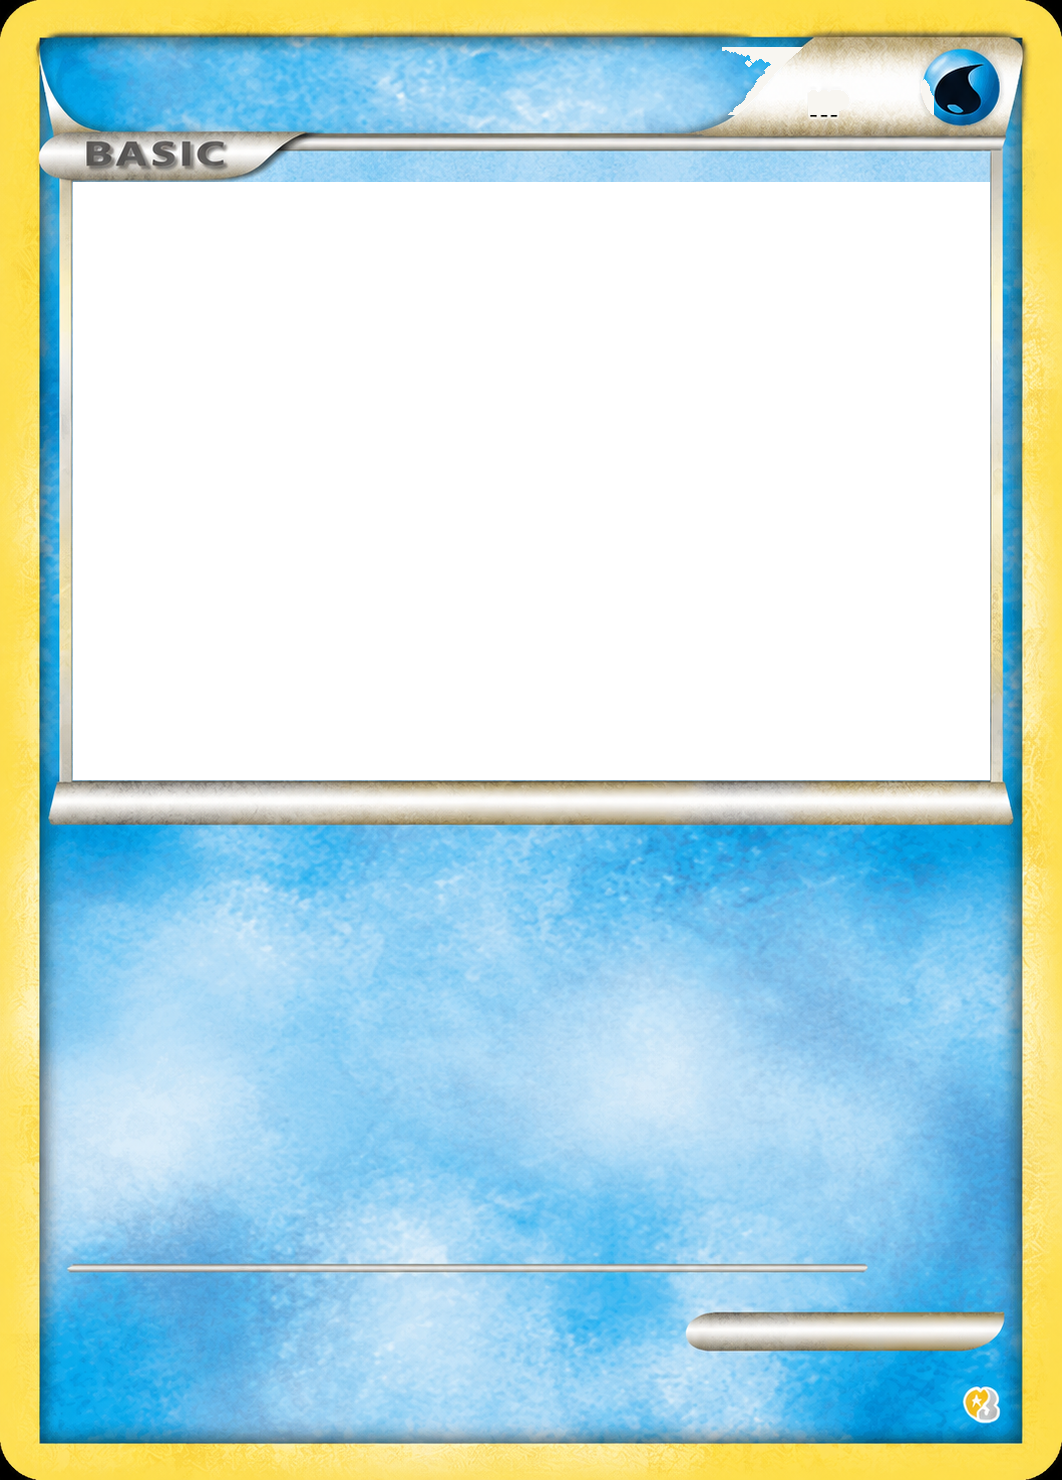
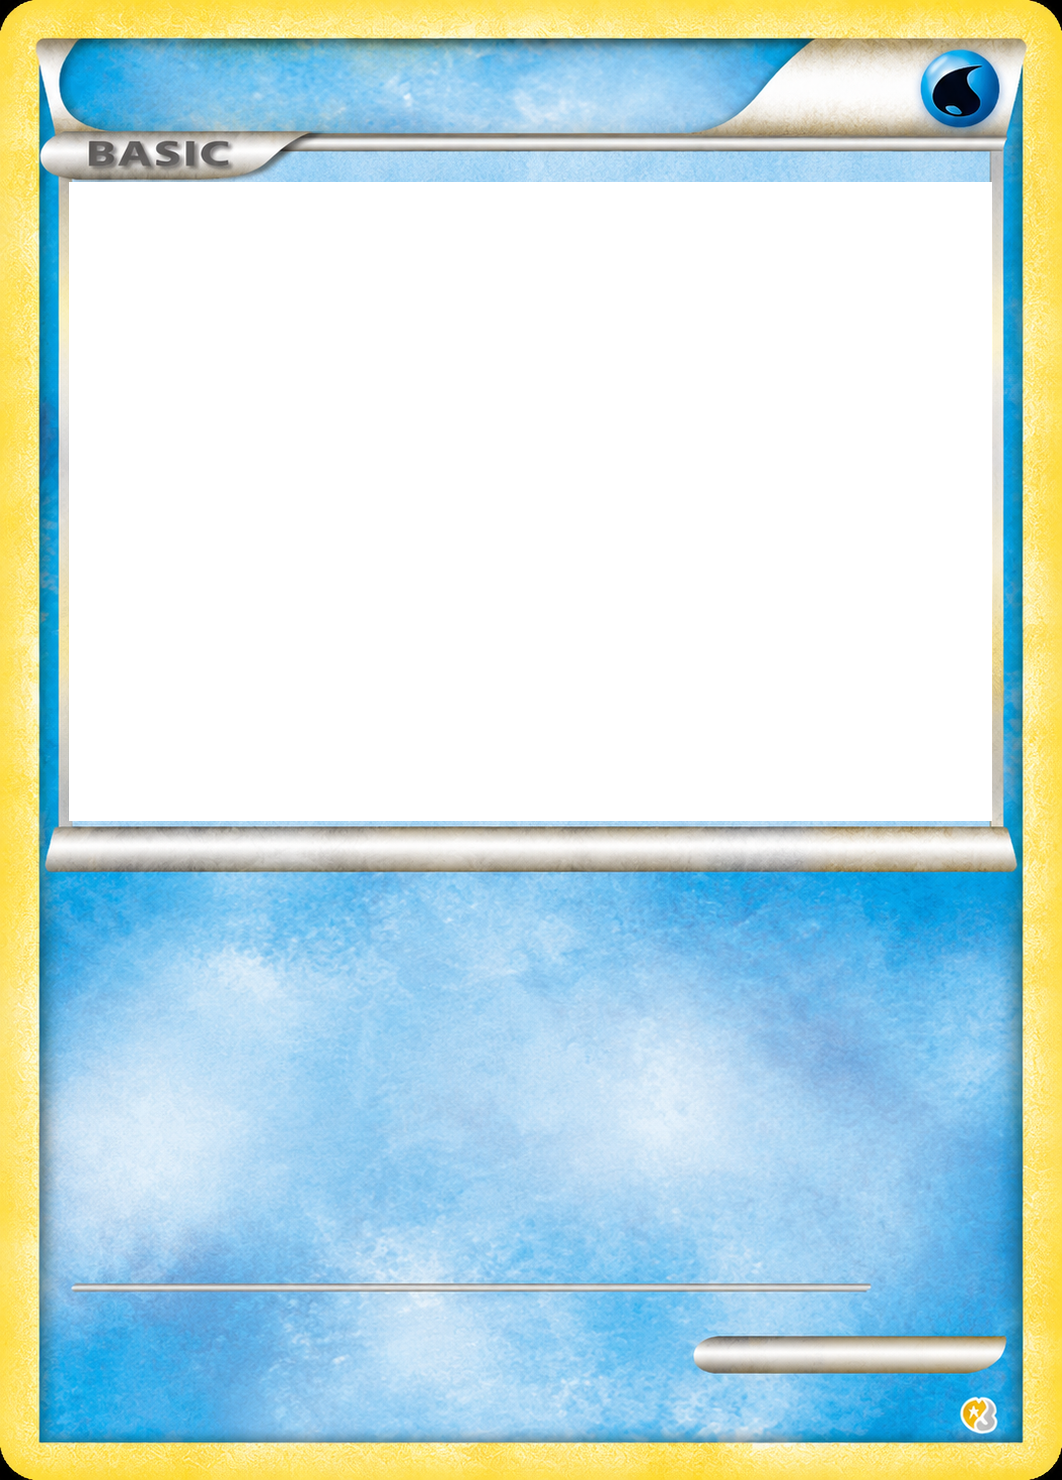
Reprocess all HGSS Basic templates and wire full energy set
Rebuild fire/lightning/grass/water/fighting/psychic/colorless from
Desktop sources (HP removed), measure per-energy art windows and
layout anchors, and bump template cache to v=9.

Changed region(s): [[0.0, 0.0, 1.0, 1.0], [0.7458, 0.7149, 0.839, 0.777], [0.4972, 0.0932, 0.5904, 0.1243]]

diff --git a/src/components/ui/TcgCard.tsx b/src/components/ui/TcgCard.tsx
@@ -54,23 +54,24 @@ const GEN2_ART_WINDOW = { left: 11.0, top: 16.0, width: 78.0, height: 28.0 };
 const HGSS_GAMES = new Set(['HeartGold', 'SoulSilver']);
 
 /**
- * Art window per basic template (transparent hole). Fire lip is higher;
- * lightning’s white art rect + silver sit a bit lower on the PNG.
+ * Art window per basic template (transparent hole). Tops sit below the BASIC
+ * tab (~12.3%) so the badge stays opaque. Measured after 2026-07-11 reprocess
+ * of all Desktop HGSS_Card_Templates basics (HP removed from sources).
  */
 const HGSS_BASIC_ART_WINDOW: Record<string, { left: number; top: number; width: number; height: number }> = {
-  fire:      { left: 7.34, top: 10.34, width: 85.22, height: 41.96 },
-  // Yellow_template.png (fixed lightning): yellow art fill punched as rect below BASIC tab.
-  lightning: { left: 7.72, top: 12.30, width: 85.40, height: 40.00 },
-  // Leaf source resized 1054×1492 → 1062×1480; silver lip lower than fire.
-  grass:     { left: 7.34, top: 10.61, width: 85.40, height: 43.50 },
-  // water_template_basic_gen4.png: blue art fill; top below BASIC tab like lightning.
-  water:     { left: 6.87, top: 12.30, width: 86.35, height: 40.41 },
+  fire:      { left: 7.06, top: 12.30, width: 85.78, height: 40.07 },
+  lightning: { left: 6.50, top: 12.30, width: 86.91, height: 41.08 },
+  grass:     { left: 7.06, top: 12.30, width: 85.78, height: 42.03 },
+  water:     { left: 6.50, top: 12.30, width: 86.91, height: 43.18 },
+  fighting:  { left: 7.72, top: 12.30, width: 84.46, height: 40.14 },
+  psychic:   { left: 6.50, top: 12.30, width: 86.91, height: 42.57 },
+  colorless: { left: 6.50, top: 12.30, width: 86.91, height: 42.16 },
 };
 const HGSS_BASIC_ART_DEFAULT = HGSS_BASIC_ART_WINDOW.fire;
 
 /**
- * Text anchors per template. Fire and lightning PNGs are not pixel-identical
- * vertically — silver lip / bottom rule differ — so OT/moves/stats must track each.
+ * Text anchors per template. Silver lip / bottom rule Y differ slightly across
+ * PNGs, so OT / moves / stats / footer track each energy independently.
  */
 const HGSS_LAYOUT: Record<string, {
   dataBarTop: string;
@@ -80,40 +81,60 @@ const HGSS_LAYOUT: Record<string, {
   footerTop: string;
 }> = {
   fire: {
-    dataBarTop: '53.15%',
-    attacksTop: '56.8%',
-    statBoxTop: '85.4%',
-    heldPillTop: '87.15%',
-    footerTop: '90.4%',
+    dataBarTop: '53.31%',
+    attacksTop: '56.81%',
+    statBoxTop: '84.93%',
+    heldPillTop: '86.68%',
+    footerTop: '89.08%',
   },
   lightning: {
-    // New Yellow_template: silver lip ~52.3%, bottom rule ~84.1% (near fire).
-    dataBarTop: '53.2%',
-    attacksTop: '56.9%',
-    statBoxTop: '85.3%',
-    heldPillTop: '87.1%',
-    footerTop: '89.6%',
+    dataBarTop: '54.33%',
+    attacksTop: '57.83%',
+    statBoxTop: '86.29%',
+    heldPillTop: '88.04%',
+    footerTop: '90.44%',
   },
   grass: {
-    // Silver lip starts ~54.3%; bottom rule ~86.3% (lower than fire).
-    dataBarTop: '55.2%',
-    attacksTop: '58.5%',
-    statBoxTop: '87.5%',
-    heldPillTop: '89.5%',
-    footerTop: '92.0%',
+    dataBarTop: '55.27%',
+    attacksTop: '58.77%',
+    statBoxTop: '87.43%',
+    heldPillTop: '89.18%',
+    footerTop: '91.58%',
   },
   water: {
-    // Silver lip ~52.7%; bottom rule ~85.5%.
-    dataBarTop: '53.6%',
-    attacksTop: '57.3%',
-    statBoxTop: '86.7%',
-    heldPillTop: '88.5%',
-    footerTop: '91.0%',
+    dataBarTop: '56.76%',
+    attacksTop: '60.26%',
+    statBoxTop: '88.04%',
+    heldPillTop: '89.79%',
+    footerTop: '92.19%',
+  },
+  fighting: {
+    dataBarTop: '53.38%',
+    attacksTop: '56.88%',
+    statBoxTop: '85.68%',
+    heldPillTop: '87.43%',
+    footerTop: '89.83%',
+  },
+  psychic: {
+    dataBarTop: '55.81%',
+    attacksTop: '59.31%',
+    statBoxTop: '87.97%',
+    heldPillTop: '89.72%',
+    footerTop: '92.12%',
+  },
+  colorless: {
+    dataBarTop: '55.41%',
+    attacksTop: '58.91%',
+    statBoxTop: '87.57%',
+    heldPillTop: '89.32%',
+    footerTop: '91.72%',
   },
 };
 
-/** HGSS Basic templates currently on disk under public/cards/gen4/templates/. */
-const HGSS_BASIC_ENERGIES = new Set(['fire', 'lightning', 'grass', 'water']);
+/** Full classic Basic energy set under public/cards/gen4/templates/. */
+const HGSS_BASIC_ENERGIES = new Set([
+  'fire', 'lightning', 'grass', 'water', 'fighting', 'psychic', 'colorless',
+]);
 
 /**
  * Resolve an HGSS real-PNG template if one exists for this stage + energy.
@@ -132,7 +153,7 @@ function resolveHgssTemplate(
   if (!stageKey) return null;
   if (stageKey === 'basic' && HGSS_BASIC_ENERGIES.has(energyKey)) {
     // ?v= bumps when templates are reprocessed (art hole / corners).
-    return `/cards/gen4/templates/${stageKey}-${energyKey}.png?v=8`;
+    return `/cards/gen4/templates/${stageKey}-${energyKey}.png?v=9`;
   }
   return null;
 }

diff --git a/STATUS.md b/STATUS.md
@@ -2,7 +2,7 @@
 
 **Purpose:** Hand-off doc for new AI/human sessions. Keep this updated when shipping work.  
 **Repo:** `danielkimball/pokedex` · **Deploy:** Vercel (pushes to `main`)  
-**Local:** `npm run dev` → `https://127.0.0.1:5173/` (HTTPS via `@vitejs/plugin-basic-ssl`)  
+**Local:** `npm run dev` → `https://localhost:5173/` (HTTPS via `@vitejs/plugin-basic-ssl`)  
 **Last updated:** 2026-07-11
 
 ---
@@ -22,23 +22,34 @@ Key UI: collection list + **card grid**, dex entry carousel, filters/sort, Home 
 
 ## Done recently (high value)
 
-### HGSS real card templates (Gen 4)
+### HGSS real card templates (Gen 4) — full Basic set
 
 | Template | Path | Who gets it |
 |----------|------|-------------|
-| **Basic Fire** | `public/cards/gen4/templates/basic-fire.png` | HG/SS + TCG Basic + primary Fire |
-| **Basic Lightning** | `public/cards/gen4/templates/basic-lightning.png` | HG/SS + TCG Basic + primary Electric |
-| **Basic Grass** | `public/cards/gen4/templates/basic-grass.png` | HG/SS + TCG Basic + primary Grass/Bug/Poison |
-| **Basic Water** | `public/cards/gen4/templates/basic-water.png` | HG/SS + TCG Basic + primary Water/Ice |
+| **Basic Fire** | `public/cards/gen4/templates/basic-fire.png` | Fire |
+| **Basic Lightning** | `public/cards/gen4/templates/basic-lightning.png` | Electric |
+| **Basic Grass** | `public/cards/gen4/templates/basic-grass.png` | Grass / Bug / Poison |
+| **Basic Water** | `public/cards/gen4/templates/basic-water.png` | Water / Ice |
+| **Basic Fighting** | `public/cards/gen4/templates/basic-fighting.png` | Fighting / Rock / Ground |
+| **Basic Psychic** | `public/cards/gen4/templates/basic-psychic.png` | Psychic / Ghost |
+| **Basic Colorless** | `public/cards/gen4/templates/basic-colorless.png` | Normal / Flying / Dragon (+ Steel/Dark fallback) |
 
-**Source templates (user-provided):**  
-`~/Desktop/HGSS_Card_Templates/`  
-- `Basic_fire_Gen4.png`  
-- `Yellow_template.png` → **lightning** (replaces buggy `basic_electric_tempalte_gen4.png`)  
-- `basic_leaf_template.png` → **grass**  
-- `water_template_basic_gen4.png` → **water**  
-- Reference full cards (not blanks): `basic_water.jpg` (Lapras), `Basic_fight.jpg` (Tyrogue), `basic_psyhic.jpg` (Wobbuffet)  
-- Reference scans under `actualcards/`
+**Classic Basic set is complete** (7 energies). Optional later: Metal / Darkness (Neo-era).
+
+**Source templates (user-provided):** `~/Desktop/HGSS_Card_Templates/`
+
+| Energy | Desktop source |
+|--------|----------------|
+| fire | `Basic_fire_Gen4.png` |
+| lightning | `Electric_Template_Gen4_basic.png` |
+| grass | `basic_leaf_template.png` |
+| water | `Water_Template_gen4_basic.png` |
+| fighting | `Fight_Template_Gen4_Basic.png` |
+| psychic | `Pyschic_template_gen4_template.png` |
+| colorless | `Normal_Template_gen4_basic.png` |
+
+**2026-07-11 reprocess (HP removed from sources):**  
+All 7 re-cut to **1062×1480**, art hole punched below BASIC tab (~12.3% top), per-energy `HGSS_BASIC_ART_WINDOW` + `HGSS_LAYOUT`, template cache **`?v=9`**. Metrics in `tmp/hgss_basic_metrics.json`.
 
 **Renderer:** `src/components/ui/TcgCard.tsx` → `HgssTcgCard` when `resolveHgssTemplate()` hits.
 
@@ -46,117 +57,82 @@ Key UI: collection list + **card grid**, dex entry carousel, filters/sort, Home 
 Baby rule so **Pikachu is Basic** (Pichu → Pikachu stays Basic; Raichu = Stage 1).  
 See `TCG_BABY_SPECIES` + `tcgStageLabel()` in `TcgCard.tsx`.
 
-**Layout:** OT on silver lip under art; moves; IV/EV under bottom rule; held in Illus. pill; weakness + location bottom-right.  
-Fire / lightning / grass use **per-energy vertical anchors** in `HGSS_LAYOUT` (PNG geometry is not identical).
-
-**Grass layout notes:**  
-- Source `basic_leaf_template.png` 1054×1492 → **1062×1480**, near-white punch (thr 248).  
-- Silver lip ~**54.3%**; bottom rule ~**86.3%**.  
-- Art window: `{ left: 7.34, top: 10.61, width: 85.40, height: 43.50 }`.
-
-**Lightning / Yellow_template notes (re-export 2026-07-11):**  
-- Source already **1062×1480**; art fill is **yellow** (not white) — rectangular punch, not white-key.  
-- Art top must sit **below BASIC tab** (~12.3%) so the badge stays opaque.  
-- Baked “HP” on silver wedge was cleared so CSS overlay stays single.  
-- Silver lip ~**52.3%**; bottom rule ~**84.1%** (near fire).  
-- Art window: `{ left: 7.72, top: 12.30, width: 85.40, height: 40.00 }`.
-
-**Water layout notes:**  
-- Source `water_template_basic_gen4.png` 1059×1486 → **1062×1480**; blue art fill (not white).  
-- Same BASIC-safe top (~12.3%); silver lip ~**52.7%**; bottom rule ~**85.5%**.  
-- Art window: `{ left: 6.87, top: 12.30, width: 86.35, height: 40.41 }`.
+**Layout:** OT on silver lip under art; moves; IV/EV under bottom rule; held in Illus. pill; weakness + location bottom-right. Per-energy vertical anchors in `HGSS_LAYOUT`.
 
 **Art:**  
-- Maps: `src/core/constants/gen4-card-art.ts` (`GEN4_CARD_ART_HGSS` / PL / DP)  
+- Maps: `src/core/constants/gen4-card-art.ts`  
 - Files: `public/cards/gen4/<set>/<num>.jpg`  
 - Pipeline: `tmp/gen4_download_crop.py`, picks in `tmp/gen4/_art_picks.json`  
-- Cache bust: `GEN4_ART_CACHE_VER` in `gen4-card-art.ts` (bump when re-cropping)
-
-**Art crop rules (set-aware):**  
-- Below BASIC/Stage tab, above flavor silver bar  
-- Aspect ≈ template art hole so `object-fit: cover` doesn’t snout-clip  
-- DP/PL flavor bar is higher than HGSS — different bottoms in crop script
+- Cache bust: `GEN4_ART_CACHE_VER` in `gen4-card-art.ts`
 
 **Energies:**  
 - Icons: `public/cards/gen1/energies/*.png`  
-- Colorless = HGSS star cut from Cyndaquil card  
 - URLs via `tcgEnergyUrl()` + `ENERGY_CACHE_VER` in `energies.ts`  
-- Electric type → energy key `lightning` (not `electric`)  
-- Grass type → energy key `grass` (Bug/Poison also map to grass frame)  
-- Water type → energy key `water` (Ice also maps to water frame)
+- Electric → `lightning`; Ice → `water`; Bug/Poison → `grass`; Rock/Ground → `fighting`; Ghost → `psychic`; Normal/Flying/Dragon/Steel/Dark → `colorless`
 
 ### Dex UX
 
-- Sort: `#`, A–Z, Level ↑/↓, **Type** (list + card) — `PokedexListScreen.tsx` / `DexCardView.tsx`
+- Sort: `#`, A–Z, Level ↑/↓, **Type** (list + card)
 - Collection vs Story modes, Progressive / All spots
 - HeartGold / Yellow story progression views
 
 ### Saves / data
 
 - Multi-gen import path (Gen 1–4)
-- HGSS badges / daycare / story guide work (see recent commits)
+- HGSS badges / daycare / story guide work
 - Dropbox / Google Drive / directory sync hooks exist
 
 ---
 
 ## Not done / next (HGSS cards)
 
-### Templates still needed (user draws blank frames, agent wires)
+### Templates still needed
 
 | Stage | Energies needed |
 |-------|-----------------|
-| **Basic** | fighting, psychic, colorless (+ metal/dark if you want) |
 | **Stage 1** | all energies that have evolutions |
 | **Stage 2** | fire / water / grass / etc. |
-
-**Desktop sources that are NOT blanks:**  
-`basic_water.jpg`, `Basic_fight.jpg`, `basic_psyhic.jpg` are **full printed cards** (Lapras / Tyrogue / Wobbuffet). Do **not** wire them as templates without blanking art + all text (prior auto-inpaint looked bad). Prefer user-drawn blanks matching fire/leaf quality.
+| **Optional Basic** | metal, darkness (if you want Neo-era frames) |
 
 **Wiring a new template:**
 
 1. Drop PNG on Desktop `HGSS_Card_Templates/`
-2. Process: resize to **1062×1480** if needed; punch **transparent art hole** (near-white thr ~248; keep outer yellow corners **opaque** unless you want CSS clip)
-3. Save as `public/cards/gen4/templates/{basic\|stage1\|stage2}-{energy}.png`  
-   Energy keys: `fire` | `lightning` | `water` | `grass` | `fighting` | `psychic` | `colorless` | …
-4. Add energy to `HGSS_BASIC_ENERGIES` (or a stage1/stage2 set) in `TcgCard.tsx`
-5. Measure art hole + silver lip %; add `HGSS_BASIC_ART_WINDOW` + `HGSS_LAYOUT` entries if geometry ≠ fire
-6. Re-crop that energy’s species art if aspect differs; bump `GEN4_ART_CACHE_VER`
-7. Hard-refresh; then push `main` for Vercel
+2. Process: resize to **1062×1480**; punch **transparent art hole** below BASIC (~12.3% top); keep yellow corners opaque
+3. Save as `public/cards/gen4/templates/{basic\|stage1\|stage2}-{energy}.png`
+4. Add energy to `HGSS_BASIC_ENERGIES` (or stage1/stage2 set) in `TcgCard.tsx`
+5. Measure art hole + silver lip %; add `HGSS_BASIC_ART_WINDOW` + `HGSS_LAYOUT`
+6. Bump template `?v=`
+7. Hard-refresh; push `main` for Vercel
 
-**Stage templates:** `resolveHgssTemplate` already maps Stage 1/2 names → `stage1` / `stage2` filenames; only **basic** + fire/lightning/grass/water are allow-listed today.  
-**Template cache:** `?v=8` on HGSS template URLs.
+**Stage templates:** `resolveHgssTemplate` maps Stage 1/2 → filenames; only **basic** + all 7 energies allow-listed today.  
+**Template cache:** `?v=9`.
 
 ### Known card quirks / polish
 
-- [ ] Per-species hand crops still needed when flavor bar or framing is ugly (Charmander PL was hand-fixed; others may need same)
-- [ ] Grass layout differs slightly (lip lower); fine as per-energy layout
-- [ ] Yellow_template HP clear leaves a slight smudge on silver wedge (harmless under CSS HP)
+- [ ] Per-species hand crops when flavor bar/framing is ugly
 - [ ] Gen 2 has art + CSS frame only (no real Neo PNG templates yet)
 - [ ] Gen 3: no TCG art path (null art)
-- [ ] Stage 1/2 still use CSS placeholder even for Fire/Electric/Grass/Water
+- [ ] Stage 1/2 still use CSS placeholder for all energies
 - [ ] Dual-type → single primary energy for frame color
 
-### Product / infra backlog (from older work)
+### Product / infra backlog
 
-- [ ] Real Gen 2/3/4 PNG frames beyond HGSS basic fire/lightning/grass/water
+- [ ] Real Gen 2/3 stage frames
 - [ ] Ability display completeness / Gen 3 ability slot table
 - [ ] Home + transfer polish
-- [ ] Living tests against Desktop `Pokemon HeartGold Version.dsv` (some tests skip if missing)
+- [ ] Living tests against Desktop `Pokemon HeartGold Version.dsv`
 
 ---
 
-## Key files (start here in a new session)
+## Key files
 
 | Area | Path |
 |------|------|
 | Card UI | `src/components/ui/TcgCard.tsx` |
 | Gen4 art maps | `src/core/constants/gen4-card-art.ts` |
 | Energy icons | `src/core/constants/energies.ts` |
-| Dex list/sort | `src/components/screens/PokedexListScreen.tsx` |
-| Card grid | `src/components/screens/DexCardView.tsx` |
-| Dex entry | `src/components/screens/DexEntryScreen.tsx` |
 | HGSS templates | `public/cards/gen4/templates/` |
-| Crop pipeline | `tmp/gen4_download_crop.py` |
+| Metrics (last reprocess) | `tmp/hgss_basic_metrics.json` |
 | User template sources | `~/Desktop/HGSS_Card_Templates/` |
 
 ---
@@ -164,7 +140,8 @@ Fire / lightning / grass use **per-energy vertical anchors** in `HGSS_LAYOUT` (P
 ## Recent git (card work)
 
 ```
-(pending) HGSS Basic Water
+(pending) Reprocess all 7 HGSS basics, wire fighting/psychic/colorless
+f8454ee Add HGSS Basic Water card template
 1e1ad7d Replace HGSS lightning with Yellow_template; reapply grass
 691128b Add HGSS Basic Grass card template
 ```
@@ -178,10 +155,10 @@ Fire / lightning / grass use **per-energy vertical anchors** in `HGSS_LAYOUT` (P
 3. New HGSS templates: process + wire allow-list + layout; don’t invent CSS placeholders for types that already have PNGs.
 4. After re-cropping art, **bump cache ver** (`GEN4_ART_CACHE_VER` / template `?v=`).
 5. When shipping: commit + `git push origin main` (Vercel).
-6. **Update this file** at end of session: move items Done ↔ Not done, note new template filenames and any layout gotchas.
+6. **Update this file** at end of session.
 
 ---
 
-## Quick “what to do next” (user intent as of 2026-07-11)
+## Quick “what to do next”
 
-Continue **one-by-one HGSS basic templates**. Fire / lightning / grass / water done. Next when **blank** frames are drawn: **fighting / psychic / colorless**. Stage 1/2 later.
+**Basic set done.** Next: Stage 1 / Stage 2 blanks when drawn. Optional metal/darkness. Hard-refresh after deploy (`?v=9`).
